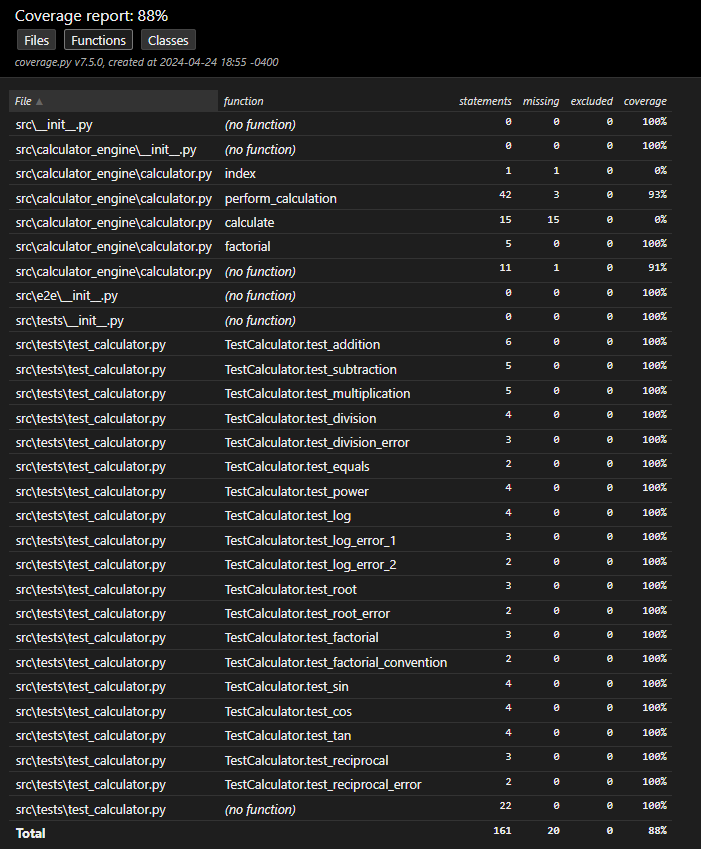
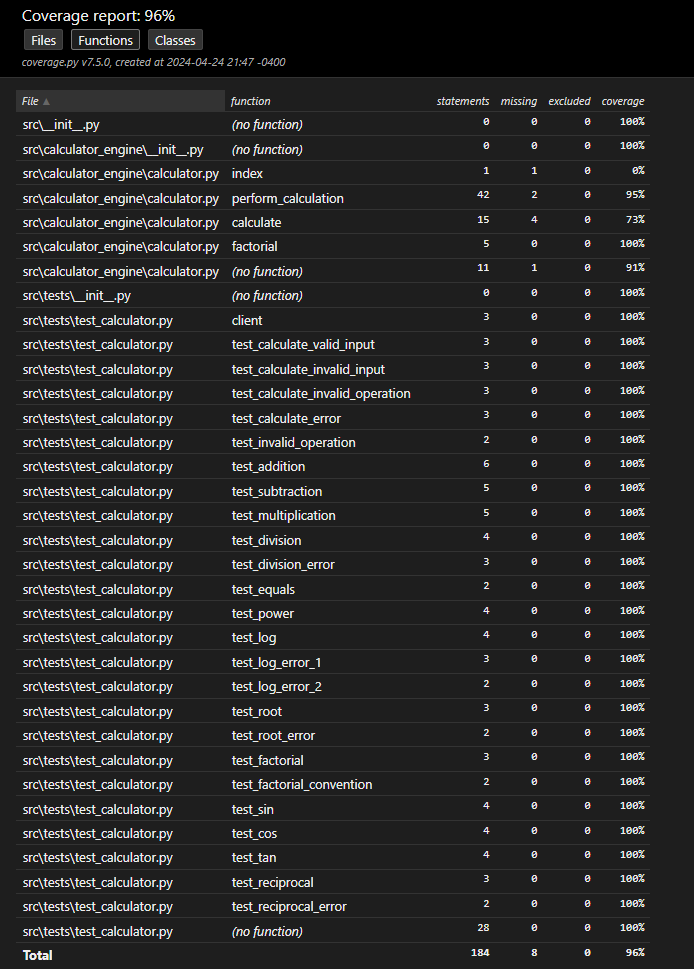
updated pytest and playwright tests + also have updated the readme.md

diff --git a/src/e2e/test_calculator_playwright.py b/src/e2e/test_calculator_playwright.py
@@ -1,0 +1,80 @@
+import re
+from playwright.sync_api import expect, Page
+
+# preq-E2E-TEST-5
+def test_has_title(page: Page):
+    page.goto("http://127.0.0.1:5000/")
+    title = page.title()
+    assert "Calculator" in title
+
+def test_add_operation(page: Page):
+    page.goto("http://127.0.0.1:5000/")
+
+    # Fill inputs with numeric values
+    page.fill('input[name="num1"]', '5')
+    page.fill('input[name="num2"]', '3')
+
+    # Click the Add button
+    page.click('button:has-text("A + B")')
+
+    # Get the result from the UI
+    result = page.text_content('.info-box')
+
+    # Verify the sum displayed in the calculator UI matches Input A plus Input B
+    assert result == '5 + 3 = 8'
+
+def test_divide_by_zero_error(page: Page):
+    page.goto("http://127.0.0.1:5000/")
+
+    # Fill input A with a value and input B with zero
+    page.fill('input[name="num1"]', '10')
+    page.fill('input[name="num2"]', '0')
+
+    # Click the Divide button
+    page.click('button:has-text("A / B")')
+
+    # Get the result from the UI
+    result = page.text_content('.info-box')
+
+    # Verify the result is an error state including a result box containing "Not a Number"
+    assert 'Error: Division by zero' in result
+
+def test_invalid_input_error(page: Page):
+    page.goto("http://127.0.0.1:5000/")
+
+    # Fill input A with a numeric value and input B with a text value
+    page.fill('input[name="num1"]', '10')
+    page.fill('input[name="num2"]', 'fifteen')
+
+    # Click the Add button
+    page.click('button:has-text("A + B")')
+
+    # Get the result from the UI
+    result = page.text_content('.info-box')
+
+    # Verify the last part contains the error message
+    assert 'Invalid input. Please enter valid numbers.' in result
+
+
+
+def test_clear_button(page: Page):
+    page.goto("http://127.0.0.1:5000/")
+
+    # Fill inputs with numeric values
+    page.fill('input[name="num1"]', '5')
+    page.fill('input[name="num2"]', '3')
+
+    # Click the Add button
+    page.click('button:has-text("A + B")')
+
+    # Click the Clear button
+    page.click('button:has-text("Clear")')
+
+    # Get the result from the UI
+    result = page.text_content('.info-box')
+
+    # Verify the application has returned to the default sta
+
+
+
+

diff --git a/src/tests/test_calculator.py b/src/tests/test_calculator.py
@@ -1,14 +1,39 @@
+import subprocess
+
 import pytest
-from src.calculator_engine.calculator import perform_calculation, factorial
+from src.calculator_engine.calculator import perform_calculation, app
 
 
+@pytest.fixture
+def client():
+    app.config['TESTING'] = True
+    with app.test_client() as client:
+        yield client
 
+def test_calculate_valid_input(client):
+    response = client.post('/calculate', data=dict(num1='2', operation='+', num2='3'))
+    assert response.status_code == 200
+    assert b"5" in response.data
+
+def test_calculate_invalid_input(client):
+    response = client.post('/calculate', data=dict(num1='a', operation='+', num2='3'))
+    assert response.status_code == 200
+    assert b"Invalid input. Please enter valid numbers." in response.data
+
+def test_calculate_invalid_operation(client):
+    response = client.post('/calculate', data=dict(num1='2', operation='invalid', num2='3'))
+    assert response.status_code == 200
+    assert b"Invalid operation" in response.data
+
+def test_calculate_error(client):
+    response = client.post('/calculate', data=dict(num1='2', operation='log', num2='0'))
+    assert response.status_code == 200
+    assert b"Error: Invalid input" in response.data
 
 
 def test_invalid_operation():
     result = perform_calculation(2, 3, 'invalid')
     assert result == 'Invalid operation'
-
 
 
  # preq-UNIT-TEST-2

diff --git a/readme.md b/readme.md
@@ -119,6 +119,20 @@ Run the following command in your command line (terminal/console) to install Pla
    playwright install
 ```
 
+After you have installed Playwright, make sure you run the Flask application **first**. The link in the test cases will not work if the Flask application is not running in the background already. After you made sure it's running, you can run the playwright test cases.
+
+You can run the following command in the terminal to see the coverage report:
+```
+   coverage report -m
+```
+If you would like an HTML file, you can run the following command:
+
+```
+   coverage html
+```
+Then, you can open the HTML file in your browser to view the coverage report in a more detailed format.
+![alt text](images/img6.png)
+
 ## Final Video Presentation
 [Link to the final video presentation.]() NOT AVAILABLE YET
 
